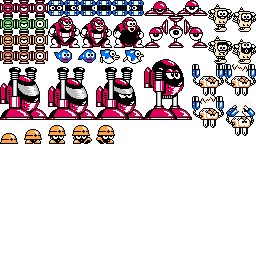
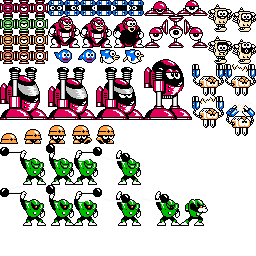
Added Hammer Joe (still wip)

Changed region(s): [[0.0, 0.5625, 0.4062, 0.9062], [0.4375, 0.5938, 0.5625, 0.9062], [0.5938, 0.75, 0.8125, 0.9062]]

diff --git a/engine/src/hikari/client/game/StageSelectState.cpp b/engine/src/hikari/client/game/StageSelectState.cpp
@@ -196,7 +196,7 @@ namespace hikari {
                     }));
 
                     // Wait half a second before continuing
-                    taskQueue.push(std::make_shared<WaitTask>(0.5f));
+                    //taskQueue.push(std::make_shared<WaitTask>(0.5f));
 
                     // Stop the regular music, start playing the boss intro music
                     taskQueue.push(std::make_shared<FunctionTask>(0, [&](float dt) -> bool {
@@ -209,7 +209,7 @@ namespace hikari {
                     }));
 
                     // Wait 7 seconds for the music to play
-                    taskQueue.push(std::make_shared<WaitTask>(7.0f));
+                    //taskQueue.push(std::make_shared<WaitTask>(7.0f));
 
                     // Go to the next game state -- playing the game
                     taskQueue.push(std::make_shared<FunctionTask>(0, [&](float dt) -> bool {
